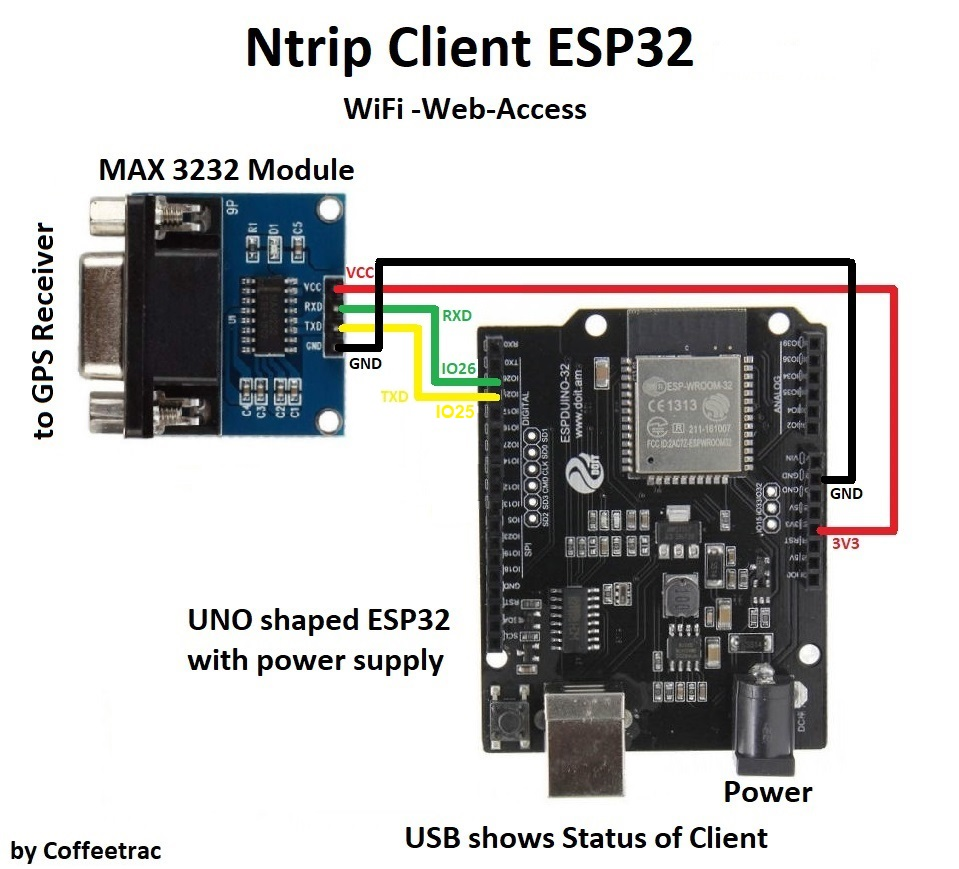
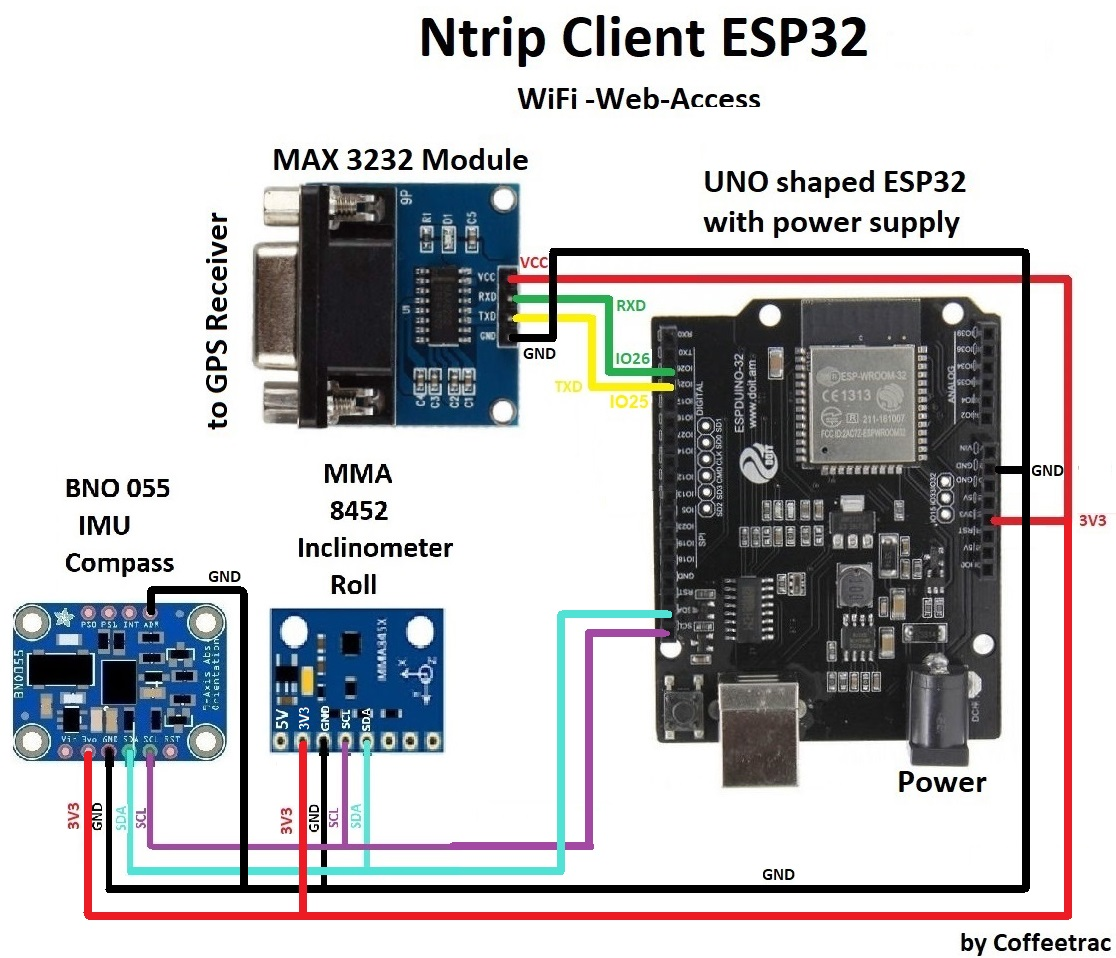
Add files via upload

diff --git a/README.md b/README.md
@@ -3,9 +3,11 @@
 Example NTRIP client written with Arduino IDE for 
 an espressif ESP32. (C) 2019- Wilhelm Eder
 
-Release V1.20
+Release V1.25
 
-Source: https://github.com/Coffeetrac/AG_NTRIP_ESP 
+Enhanced by Matthias H.(MTZ) with Bluetooth, IMU  (BNO055) and Roll Sensor MMA8452
+
+Source: https://github.com/Coffeetrac/AG_NTRIP_ESP_ENH 
 
 Discussed in detail: https://www.thecombineforum.com/forums/31-technology/279889-rtk-budget-28.html#post3301353
 
